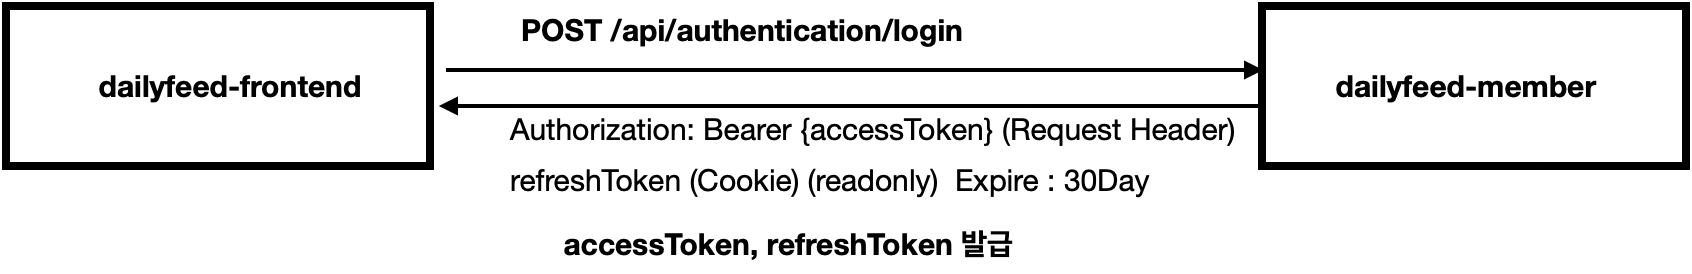
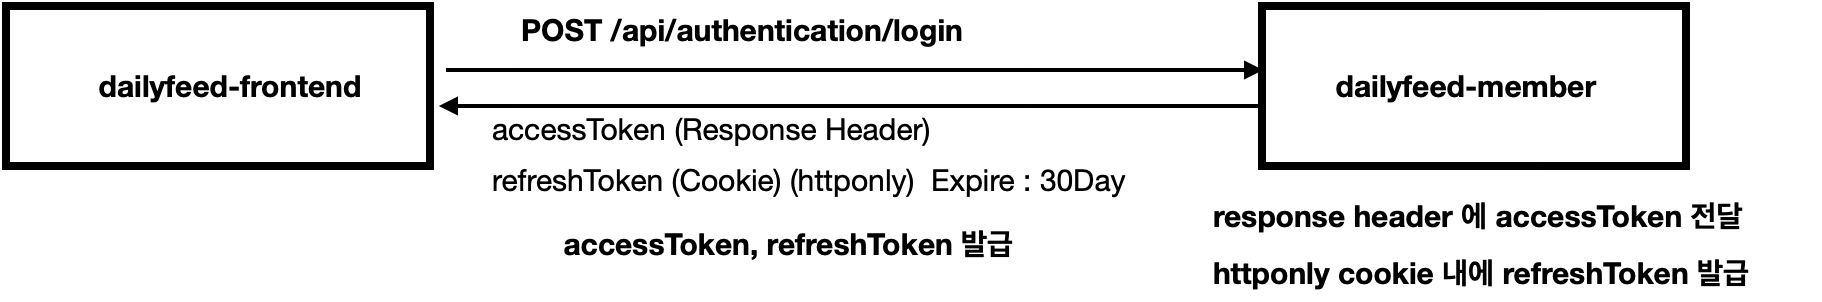
docs: (tmi-docs/member) 인증 흐름, JWT, 인증유효성 체크

Changed region(s): [[0.0, 0.0, 1.0, 0.7591], [0.3073, 0.7591, 0.6147, 0.9343], [0.6454, 0.8467, 0.9835, 0.9635]]

diff --git a/tmi-docs/member/3. 서비스간 통신 시 인증 유효성 체크.md b/tmi-docs/member/3. 서비스간 통신 시 인증 유효성 체크.md
@@ -6,15 +6,16 @@
 서비스간 통신 시 에는 JWT 를 주고받으면서 인증된 사용자인지 검증합니다. 이때 서버 비공개키가 Refresh 된 경우, AccessToken 이 만료된 경우, RefreshToken 이 만료된 경우  이렇게 세 가지 경우의 인증 관련 시나리오가 존재합니다.
 
 서버 비공개 키가 Refresh 된 경우
-- `401 UnAuthorized, {X-Token-Refress-Needed: true}` 응답 헤더를 전파해서 클라이언트에서 POST /api/token/refresh 를 하도록 유도합니다.
+- `401 UnAuthorized, {X-Token-Refress-Needed: true}` 응답 헤더를 전파해서 클라이언트에서 `POST /api/token/refresh` 를 하도록 유도합니다.
+- 멤버 서버는 JWT 를 생성할 때 사용되는 비공개 키를 1시간에 한번씩 Refresh 합니다. 따라서 접속 후 최대 1시간이 도래하면, 어떤 클라이언트 든 `401 UnAuthorized, {X-Token-Refress-Needed: true}` 응답 헤더를 전달받게 됩니다.
 - `POST /api/token/refresh` 를 수행하고 나면 새로운 AccessToken, RefreshToken 을 부여받게 됩니다.
-- `POST /api/token/refresh` 는 frontend 에서 refreshToken 을 이용해서 요청하며, 서버에서도 refreshToken 을 읽어서 유효한지 검사합니다.
+- 클라이언트에서 `POST /api/token/refresh` 요청 시에, 서버는 해당 토큰이 로그인 or 새로고침 할 때 http only Cookie 로 심어둔 refreshToken 을 읽어서 유효한지 검사합니다. 
 - Feign 관련 로직 내에 `401 UnAuthorized, {X-Token-Refress-Needed: true}`를 만났을 때에 대한 처리 로직이 있으며 `dailyfeed-feign` 모듈에 해당 기능들이 존재합니다.
 
 AccessToken 이 만료되었을 경우
 - `401 UnAuthorized, {X-Token-Refress-Needed: true}` 응답 헤더를 전파해서 클라이언트에서 POST /api/token/refresh 를 하도록 유도합니다.
 - `POST /api/token/refresh` 를 수행하고 나면 새로운 AccessToken, RefreshToken 을 부여받게 됩니다.
-- `POST /api/token/refresh` 는 frontend 에서 refreshToken 을 이용해서 요청하며, 서버에서도 refreshToken 을 읽어서 유효한지 검사합니다.
+- 클라이언트에서 `POST /api/token/refresh` 요청 시에, 서버는 해당 토큰이 로그인 or 새로고침 할 때 http only Cookie 로 심어둔 refreshToken 을 읽어서 유효한지 검사합니다. 
 - Feign 관련 로직 내에 `401 UnAuthorized, {X-Token-Refress-Needed: true}`를 만났을 때에 대한 처리 로직이 있으며 `dailyfeed-feign` 모듈에 해당 기능들이 존재합니다.
 
 RefreshToken 이 만료되었을 경우
@@ -25,3 +26,178 @@ RefreshToken 이 만료되었을 경우
 
 
 
+# ArgumentResolver - `AuthenticatedMemberProfileSummaryArgumentResolver`
+content-svc, timeline-svc, image-svc, search-svc 에서는 클라이언트가 한 요청에 담긴 JWT 를 member-svc 에 `GET /api/members/summary` 요청으로 질의해서 인증된 사용자인지 검사합니다. 이때 `AuthenticatedMemberProfileSummaryArgumentResolver` 컴포넌트에서는 다음과 같이 `MemberFeignHelper`컴포넌트로 유효한 사용자인지 조회를 합니다.<br/>
+
+```java
+@Component  
+@RequiredArgsConstructor  
+public class AuthenticatedMemberProfileSummaryArgumentResolver implements HandlerMethodArgumentResolver {  
+    private final MemberFeignHelper memberFeignHelper;  
+  
+    @Override  
+    public boolean supportsParameter(MethodParameter parameter) {  
+        return parameter.hasParameterAnnotation(AuthenticatedMemberProfileSummary.class) &&  
+                parameter.getParameterType().equals(MemberProfileDto.Summary.class);  
+    }  
+  
+    @Override  
+    public Object resolveArgument(MethodParameter parameter,  
+                                  ModelAndViewContainer mavContainer,  
+                                  NativeWebRequest webRequest,  
+                                  WebDataBinderFactory binderFactory) throws Exception {  
+        HttpServletRequest request = webRequest.getNativeRequest(HttpServletRequest.class);  
+        HttpServletResponse response = webRequest.getNativeResponse(HttpServletResponse.class);  
+  
+        String authHeader = request.getHeader("Authorization");  
+        String jwt = extractToken(authHeader);  
+  
+		// (1)
+        // JWT 검증 및 멤버 추출 (예외 발생 가능)  
+        return memberFeignHelper.getMyProfileSummary(jwt, response);  
+    }  
+  
+    public String extractToken(String authHeader) {  
+        if (authHeader == null || authHeader.isBlank() || !authHeader.startsWith("Bearer ")) {  
+            throw new BearerTokenMissingException();  
+        }  
+  
+        return authHeader.replace("Bearer ", "");  
+    }  
+}
+```
+
+(1) `return memberFeignHelper.getMyProfileSummary(jwt, response);`
+- 요청한 사용자가 적합한 사용자인지 조회를 하기 위해 Feign 요청을 하는 부분입니다.
+
+<br/>
+
+
+# 응답 헤더 전파 로직 - `MemberFeignHelper`, `FeignResonseHandler`
+Feign 모듈 설명문서에서도 작성할 내용이지만, Feign 요청시 발생한 응답 중 400,500 등의 코드에 대해서는 `FeignResponseHandler.java` 라는 컴포넌트 클래스에 별도로 정의해서 재사용 가능하도록 해두었습니다.
+
+e.g. `MemberFeignHelper`
+content-svc, timeline-svc, image-svc, search-svc 에서는 클라이언트가 한 요청에 담긴 JWT 를 member-svc 에 `GET /api/members/summary` 요청으로 질의해서 인증된 사용자인지 검사합니다.<br/>
+
+```java
+@Slf4j  
+@RequiredArgsConstructor  
+@Service  
+public class MemberFeignHelper {  
+    private final MemberFeignClient memberClient;  
+    private final FeignResponseHandler feignResponseHandler;
+
+    // ...
+
+	public MemberProfileDto.Summary getMyProfileSummary(String token, HttpServletResponse httpResponse) {  
+	    Response feignResponse = memberClient.getMyProfileSummary(token);
+	    // (1)
+	    feignResponseHandler.checkResponseHeadersAndStatusOrThrow(feignResponse, httpResponse);  
+	  
+	    try{  
+	        String feignResponseBody = IOUtils.toString(feignResponse.body().asInputStream(), StandardCharsets.UTF_8);  
+	        DailyfeedServerResponse<MemberProfileDto.Summary> apiResponse = feignObjectMapper.readValue(feignResponseBody, new TypeReference<DailyfeedServerResponse<MemberProfileDto.Summary>>() {});  
+	        return apiResponse.getData();  
+	    }  
+	    catch (InvalidFormatException e){  
+	        log.error("feign exception {} ", e.getMessage());  
+	        e.printStackTrace();  
+	        throw new MemberFeignSerializeFailException();  
+	    }  
+	    catch (Exception e){  
+	        throw new MemberApiConnectionErrorException();  
+	    }  
+	    finally {  
+	        if( feignResponse.body() != null ){  
+	            try {  
+	                feignResponse.body().close();  
+	            }  
+	            catch (Exception e){  
+	                log.error("feign response close error", e);  
+	            }  
+	        }  
+	    }  
+	}
+	
+	// ...
+	
+}
+```
+<br/>
+
+(1) `feignResponseHandler.checkResponseHeadersAndStatusOrThrow(feignResponse, httpResponse);`
+- FeignResponseHandler 컴포넌트의 checkResponseHeadersAndStatusOrThrow 메서드를 통해 응답 헤더를 검증하고 유효하지 않은 요청에 대해 Exception 을 Throw 합니다.
+
+<br/>
+
+`FeignResponseHandler.java` 
+```java
+@Slf4j  
+@Component  
+public class FeignResponseHandler {
+	// (2)
+	public void propagateTokenRefreshHeader(Response feignResponse, HttpServletResponse httpResponse) {  
+	    final String headerKey = MemberHeaderCode.X_TOKEN_REFRESH_NEEDED.getHeaderKey();  
+	    Collection<String> headers = feignResponse.headers().get(headerKey);  
+	  
+	    if(headers != null && !headers.isEmpty()){  
+	        String headerValue = headers.iterator().next();  
+	        if(headerValue != null && !headerValue.isEmpty()){  
+	            if ("true".equalsIgnoreCase(headerValue)){  
+	                httpResponse.setHeader(headerKey, "true");  
+	            }  
+	        }  
+	    }  
+	}
+	
+	public void checkResponseHeadersAndStatusOrThrow(Response feignResponse, HttpServletResponse httpResponse){  
+	    final int status = feignResponse.status();  
+	    if (status >= 200 && status < 300) {  
+	        return;  
+	    }  
+	  
+	    if (status >= 400 && status < 500) {  
+	        // HTTP 상태 코드에 따른 적절한 예외 처리  
+	        if (status == 401) {  // (1)
+	            log.error("Unauthorized request to member service - invalid or expired token");  
+	            propagateTokenRefreshHeader(feignResponse, httpResponse);  
+	            throw new MemberUnauthorizedException();  
+	        } else if (status == 403) {  
+	            log.error("Forbidden request to member service - insufficient permissions");  
+	            throw new MemberForbiddenException();  
+	        } else if (status == 404) {  
+	            log.error("Member not found in member service");  
+	            throw new MemberNotFoundException();  
+	        } else if (status >= 500) {  
+	            log.error("Member service internal error - status: {}", status);  
+	            throw new MemberApiConnectionErrorException();  
+	        } else {  
+	            log.error("Unexpected member service error - status: {}", status);  
+	            throw new MemberApiConnectionErrorException();  
+	        }  
+	    }  
+	}
+}
+```
+<br/>
+
+(1) `checkResponseHeadersAndStatusOrThrow` : Response 상태 코드 검사 및 적절한 Exception 분류 및 Throw
+- 서비스간 Feign 통신 시 401 Status 를 전달 받을 경우 (1) 의 처리를 하며 `propagateTokenRefreshHeader(...)` 메서드의 호출과 함께 `MemberUnauthorizedException` 을 throw 합니다.
+- `propagateTokenRefreshHeader(...)` 은 (2) 에서 설명합니다.
+
+(2) `propagateTokenRefreshHeader(...)` : feignResponse 중 401 에 관련된 헤더의 Key/Value 를 httpResponse 에 복사
+- 401 응답을 받고 나서 (1) 을 거쳐서 도착한 `propagateTokenRefreshHeader(...)` 메서드 에서는 `feignResponse` 의 header 들중 `X-Token-Refresh-Needed` 에 해당하는 키/밸류에 대해 `httpResponse` 에 복사해줍니다.
+
+<br/>
+
+참고: `MemberHeaderCode` (dailyfeed-code 모듈)
+```java
+@Getter  
+@RequiredArgsConstructor  
+public enum MemberHeaderCode {  
+    X_RELOGIN_REQUIRED("X-Relogin-Required"),  
+    X_TOKEN_REFRESH_NEEDED("X-Token-Refresh-Needed");  
+    private final String headerKey;  
+}
+```
+<br/>

diff --git a/tmi-docs/member/Readme.md b/tmi-docs/member/Readme.md
@@ -16,31 +16,91 @@ dailyfeed-member 는 JWT 기반의 인증을 사용합니다. AccessToken → Re
 
 <br/>
 
-# 주요 시나리오
 
-## 로그인
+# AccessToken,RefreshToken,Blacklist 방식의 인증 방식 채택
+현재 프로젝트에서는 AccessToken, RefreshToken, Blacklist 방시의 인증방식을 선택해서 개발했습니다.<br/>
+
+문서를 읽어보시기 전에 AccessToken, RefreshToken, Blacklist 방식에 대해 사전지식이 없다면 다음 내용을 확인해주시기 바랍니다.<br/>
+
+| 요소                     | 역할                   | 특징                                                                                                                                          |
+| ---------------------- | -------------------- | ------------------------------------------------------------------------------------------------------------------------------------------- |
+| **Access Token (JWT)** | **API 접근 인증**        | - 유효 기간이 **짧음** (예: 15분, 1시간) - 필요한 사용자 정보(ID, 역할 등)를 담고 있음 - 서버는 요청마다 이 토큰의 유효성만 검증 (DB 조회 불필요) - 탈취되어도 짧은 시간 안에 만료되어 피해 최소화               |
+| **Refresh Token**      | **Access Token 재발급** | - 유효 기간이 **긺** (예: 7일, 30일) - Access Token이 만료되었을 때, 새로운 Access Token을 발급받기 위해 사용 - 그 자체로 API 접근 권한은 없음 - 서버의 특정 저장소(DB, Redis 등)에 저장되고 관리됨 |
+| **Blacklist**          | **로그아웃/탈취된 토큰 무효화**  | - 로그아웃 등으로 만료되지 않았지만 더 이상 사용하면 안 되는 토큰들을 저장하는 목록 - 주로 Redis와 같은 빠른 In-Memory DB에 저장 - Access Token이 여전히 유효하더라도 Blacklist에 있으면 접근을 거부        |
+<br/>
+
+
+## 전체 인증 흐름
+#### 단계 1: 최초 로그인 (Login)
+<br/>
+
 ![](./img/authentication/thumbnail-login.png)
 <br/>
 
-## accessToken 만료시 
-![](./img/authentication/thumbnail-refresh-when-accesstoken-expired.png)
+1. **사용자**가 아이디/비밀번호로 로그인을 요청합니다.
+2. **서버**는 사용자 정보를 확인하고 인증에 성공하면:
+    - **Access Token** (짧은 유효기간)을 생성합니다.
+    - **Refresh Token** (긴 유효기간)을 생성합니다.
+3. **서버**는 Refresh Token을 자체 DB나 Redis에 저장하고, 두 토큰을 모두 **사용자**에게 전달합니다.
+4. **사용자(클라이언트)**는 두 토큰을 안전한 곳(보통 Access Token은 메모리, Refresh Token은 HttpOnly 쿠키)에 저장합니다.
+
 <br/>
 
-## refreshToken 만료시
-- e.g. 로그인한 후 오랫동안 미접속
+#### 단계 2: API 요청 (API Request)
+<br/>
+
+1. **사용자**는 API를 호출할 때마다 `Authorization` 헤더에 **Access Token**을 담아 보냅니다.
+2. **서버**는 다음을 검증합니다.    
+    - **Blacklist 확인**: 해당 Access Token이 Blacklist에 등록되어 있는지 확인합니다. 등록되어 있다면, 즉시 요청을 거부(401 Unauthorized)합니다.
+    - **서명 및 유효기간 확인**: 토큰의 서명이 올바른지, 그리고 만료되지 않았는지 확인합니다.
+3. 모든 검증을 통과하면, 서버는 요청을 처리하고 결과를 반환합니다.
+
+> 2 의 단계에 대해 Blacklist 조회시 잦은 DB 접근을 할 경우 성능저하의 우려가 있기에 Redis 를 통해 캐싱을 해두었습니다.
+
+<br/>
+
+#### 단계 3: Access Token 만료 시 재발급 (Token Refresh)
+<br/>
+
+1. 사용자의 **Access Token**이 만료되면, API 요청은 실패(401 Unauthorized)합니다.
+2. **사용자(클라이언트)**는 이 응답을 받으면, 가지고 있던 **Refresh Token**을 `/refresh` 와 같은 특정 API 엔드포인트로 보냅니다.
+3. **서버**는 받은 Refresh Token을 DB에 저장된 값과 비교하여 유효성을 검증합니다.
+4. 검증이 성공하면, 새로운 **Access Token**을 발급하여 사용자에게 전달합니다. (보안 강화를 위해 이 시점에 새로운 Refresh Token을 함께 발급하고 기존 것은 무효화하는 'Refresh Token Rotation' 전략도 많이 사용됩니다.)
+5. **사용자**는 새로 받은 Access Token으로 이전에 실패했던 API 요청을 다시 시도합니다.
+
+<br/>
+
+![](./img/authentication/thumbnail-refresh-when-accesstoken-expired.png)
+
+<br/>
+
+#### 단계 4: 로그아웃 (Logout)
+<br/>
+
+1. **사용자**가 로그아웃을 요청합니다.    
+2. **서버**는 요청 헤더에 담긴 **Access Token**을 가져와 **Blacklist**에 추가합니다. 이때, 토큰의 남은 유효기간만큼만 Blacklist에 저장하여(TTL 설정) 불필요한 데이터가 쌓이는 것을 방지합니다.
+3. 동시에 서버 DB에 저장된 사용자의 **Refresh Token**을 삭제하거나 비활성화합니다.
+4. 이렇게 하면, 해당 사용자는 Access Token이 만료 전이라도 더 이상 API를 사용할 수 없고, 새로운 Access Token도 발급받을 수 없게 됩니다.
+
+![](./img/authentication/logout.png)
+
+<br/>
+
+#### refreshToken 만료시
+<br/>
+
+e.g. 로그인한 후 오랫동안 미접속
+
+
 
 ![](./img/authentication/thumbnail-relogin-when-refreshtoken-expired.png)
 
 
 <br/>
 
-## 로그아웃
-![](./img/authentication/logout.png)
 
-
-
-
-
+refreshToken 이 만료되는 경우는 보통 오랫동안 로그인하지 않았을 경우입니다. 현재 프로젝트 내에서는 refreshToken 의 만료기한을 30Day 로 설정했기 때문에, 로그인한 날짜로부터 30일 이상 경과할 경우 refreshToken 의 기한이 만료되었으므로 재로그인을 하도록 `401 UnAuthorized {X-Relogin-Required}` 를 응답 상태코드/헤더로 응답합니다.<br/>
+<br/>
 
 
 # Notice
